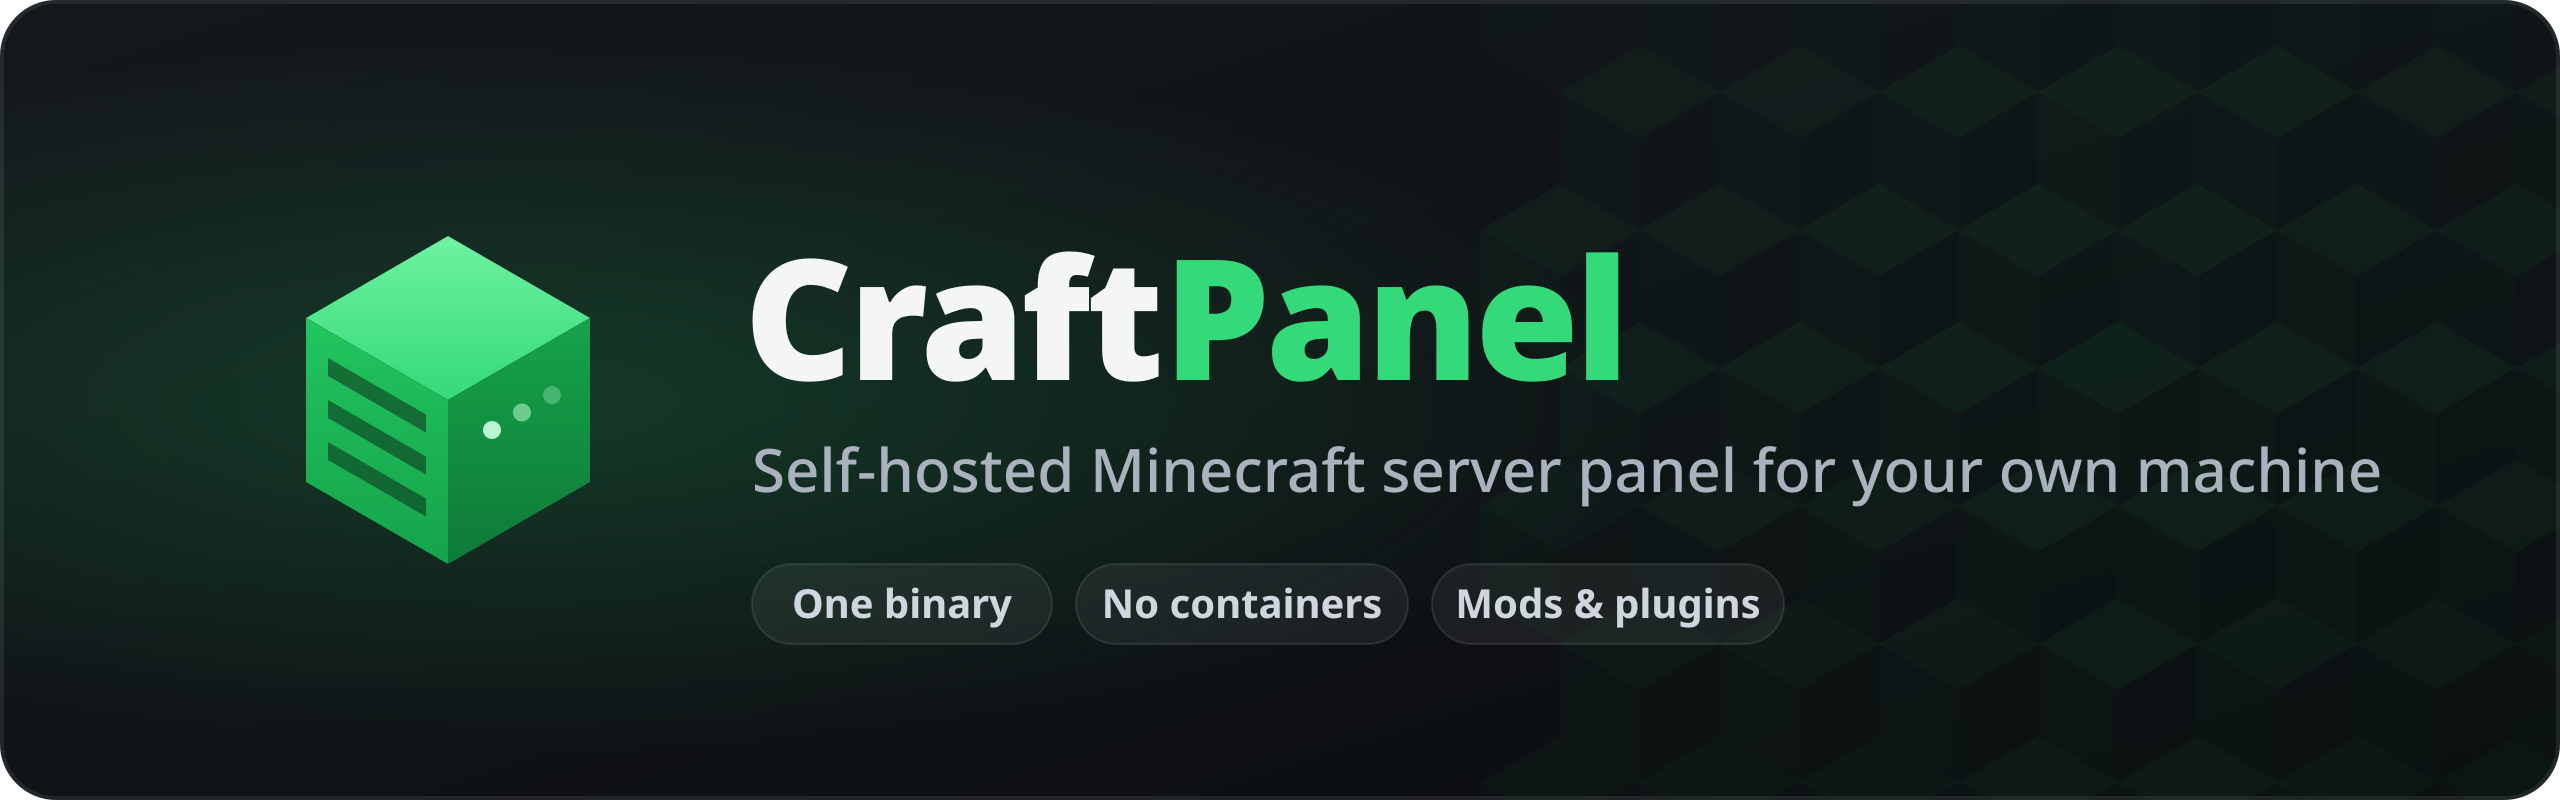
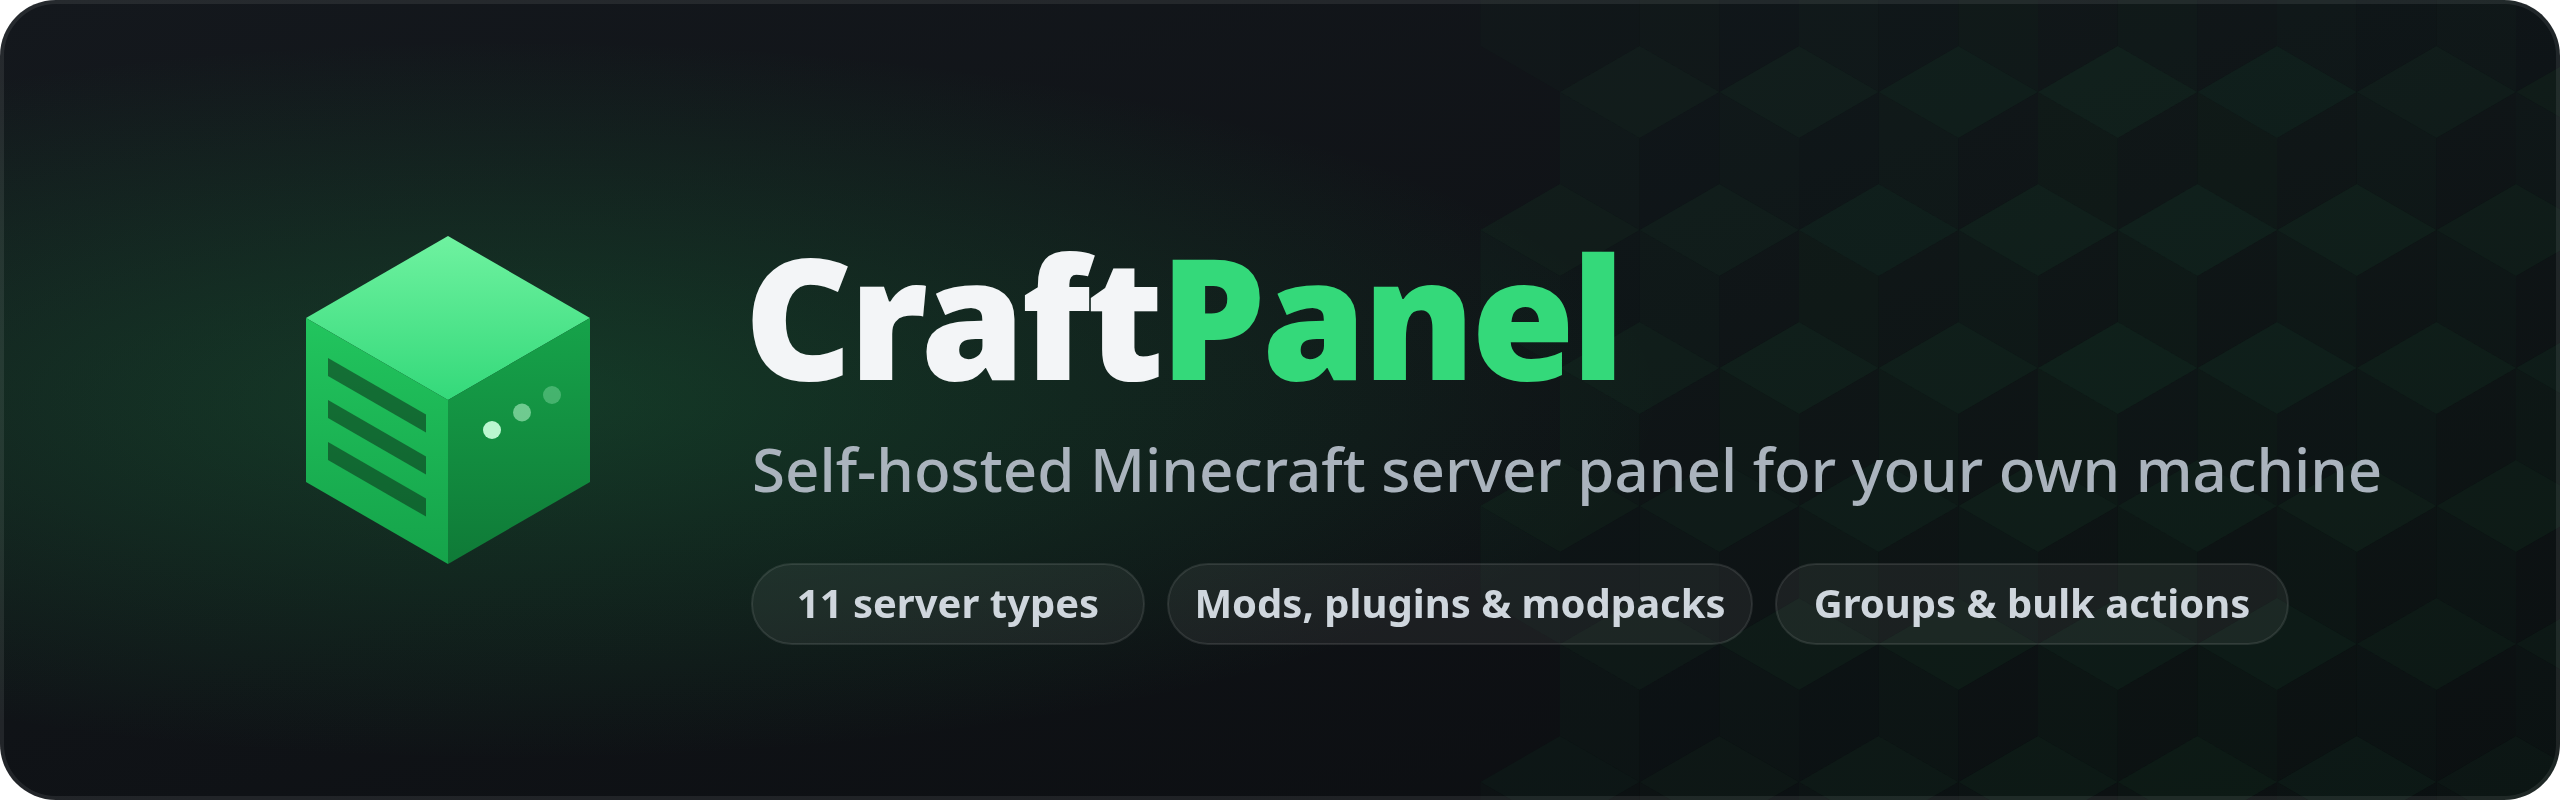
Show groups, transfers and content recognition in the README and site
The banner names eleven server types, modpacks and group actions, the
README and the landing page list the new server list, hand-overs and the
MCSManager import, and the accounts guide explains transfers and groups.

Changed region(s): [[0.3125, 0.7188, 0.875, 0.7812], [0.4688, 0.3438, 0.625, 0.4688]]

diff --git a/website/.vitepress/theme/components/HomeLanding.vue b/website/.vitepress/theme/components/HomeLanding.vue
@@ -198,6 +198,7 @@ const groups = [
 		title: 'Run servers',
 		items: [
 			'Vanilla, Paper, Folia, Purpur, Leaf, Fabric, Forge, NeoForge, Velocity, CraftBukkit and Limbo',
+			'Groups, a running-first list and start or stop many servers at once',
 			'Live console with search and log sharing',
 			'CPU, memory and storage at a glance',
 			'The right Java runtime per Minecraft version',
@@ -206,6 +207,7 @@ const groups = [
 	{
 		title: 'Manage files',
 		items: [
+			'Mods and plugins from Modrinth, even ones put there by hand, kept up to date',
 			'Browse, edit, upload and move files in the browser',
 			'Pack folders into a ZIP, unpack archives',
 			'Server properties as a form',
@@ -224,6 +226,7 @@ const groups = [
 		items: [
 			'Owner, editor and limited roles per server',
 			'Invitations, sign-up with approval, audit log',
+			'Hand a server to another account once they accept',
 			'English and German, on desktop and phone',
 		],
 	},

diff --git a/README.md b/README.md
@@ -19,14 +19,17 @@ and installing mods and plugins feels the way it does on Modrinth.
 ## Features
 
 - **Server management** — create, start, stop, restart and kill servers, with a live console and
-  live CPU, memory and storage metrics.
+  live CPU, memory and storage metrics. The server list shows which servers run, sorts running or
+  recently started ones first, sorts servers into your own groups and starts, stops or restarts a
+  whole selection at once.
 - **Loaders** — Vanilla, Paper, Folia, Purpur, Leaf, Fabric, Forge, NeoForge, Velocity, CraftBukkit
   and Limbo, each downloaded and checksum-verified. Forge and NeoForge are set up by their own
   official installer, run as the server's account. CraftBukkit comes from
   [GetBukkit](https://getbukkit.org), which builds it with SpigotMC's BuildTools; Limbo comes from
   Modrinth.
 - **Content** — search, install, update and remove mods and plugins straight from Modrinth, one at a
-  time or in bulk.
+  time or in bulk. Jars that were put into `mods/` or `plugins/` by hand are recognised by their
+  hash and linked to their Modrinth project, so they get updates too.
 - **Modpacks** — start a server from a Modrinth modpack or an uploaded `.mrpack`, switch its
   version later or unlink it. Packs for Fabric are supported; the pack's loader and game version
   are installed with it.
@@ -36,7 +39,10 @@ and installing mods and plugins feels the way it does on Modrinth.
 - **Backups** — manual and scheduled backups that save the world consistently, with optional
   off-site copies in each user's own Google Drive.
 - **Users and access** — admin and user roles, per-server roles (owner, editor, viewer),
-  invitations and an audit log.
+  invitations and an audit log. A server can be handed to another account, which has to accept and
+  have room in its budget; an administrator moves it directly and can list every user's servers.
+- **Moving in** — `craftpanel import mcsmanager` takes over the servers of an MCSManager daemon on
+  the same machine, with their names, ports and memory.
 - **Sign-up** — off, open, or open with admin approval, always with e-mail verification.
 - **Resource limits** — memory, CPU, process and disk limits per user, enforced with cgroups.
 - **Public addresses** — one [playit.gg](https://playit.gg) tunnel per server, no port forwarding

diff --git a/docs/accounts.md b/docs/accounts.md
@@ -65,6 +65,26 @@ menu shows how many are open — and accepts or declines it. An accepted server 
 Administrators cannot be invited; they already have every permission. Every membership change is
 recorded in the server's audit log.
 
+### Handing a server to another account
+
+The owner of a stopped server can offer it to another user under **Settings → General →
+Transfer to another account**. The offer appears at the top of the receiver's server list, and the
+server only moves once they accept. Until then the owner can withdraw it, and the receiver can
+decline it. An administrator moves a server straight away, without asking.
+
+Either way the receiver's memory and disk budget must have room for the server; if it does not,
+the offer is refused before it is sent, and an acceptance is refused as well. On the move the
+server folder goes into the receiver's account, its files are handed to their system account, and
+a playit.gg address of the old owner is released. Members keep their roles; a receiver who was a
+member becomes the owner instead.
+
+### Groups and the server list
+
+Everyone can sort the servers they see into their own groups, and select several servers to start,
+stop, restart or kill them together or to move them into a group. Groups are personal: nobody else
+sees them, and deleting a group never deletes a server. Administrators can switch on **Show the
+servers of every user** to list all servers on the machine, sorted by owner.
+
 ## Self sign-up
 
 By default only administrators create accounts. Under **Administration → Panel settings → Sign-ups**
